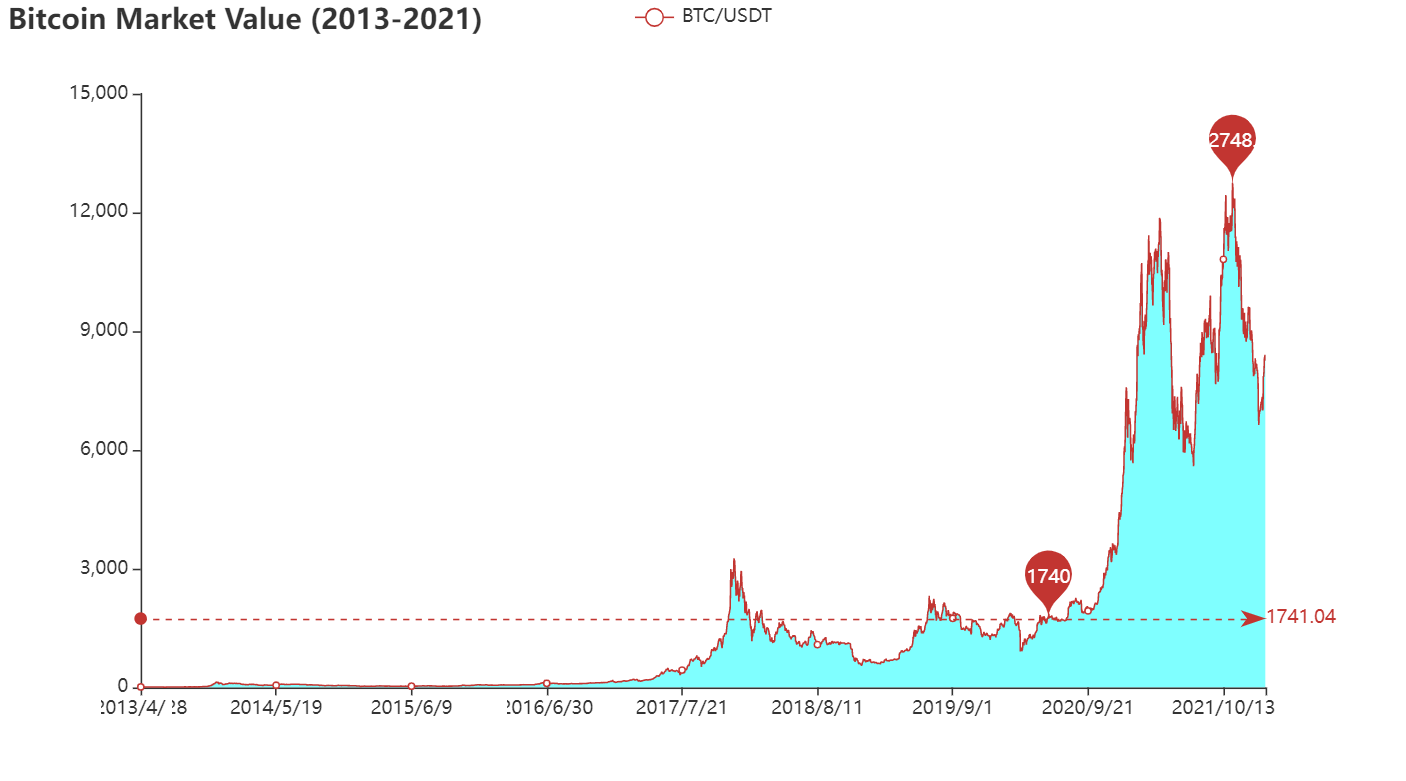
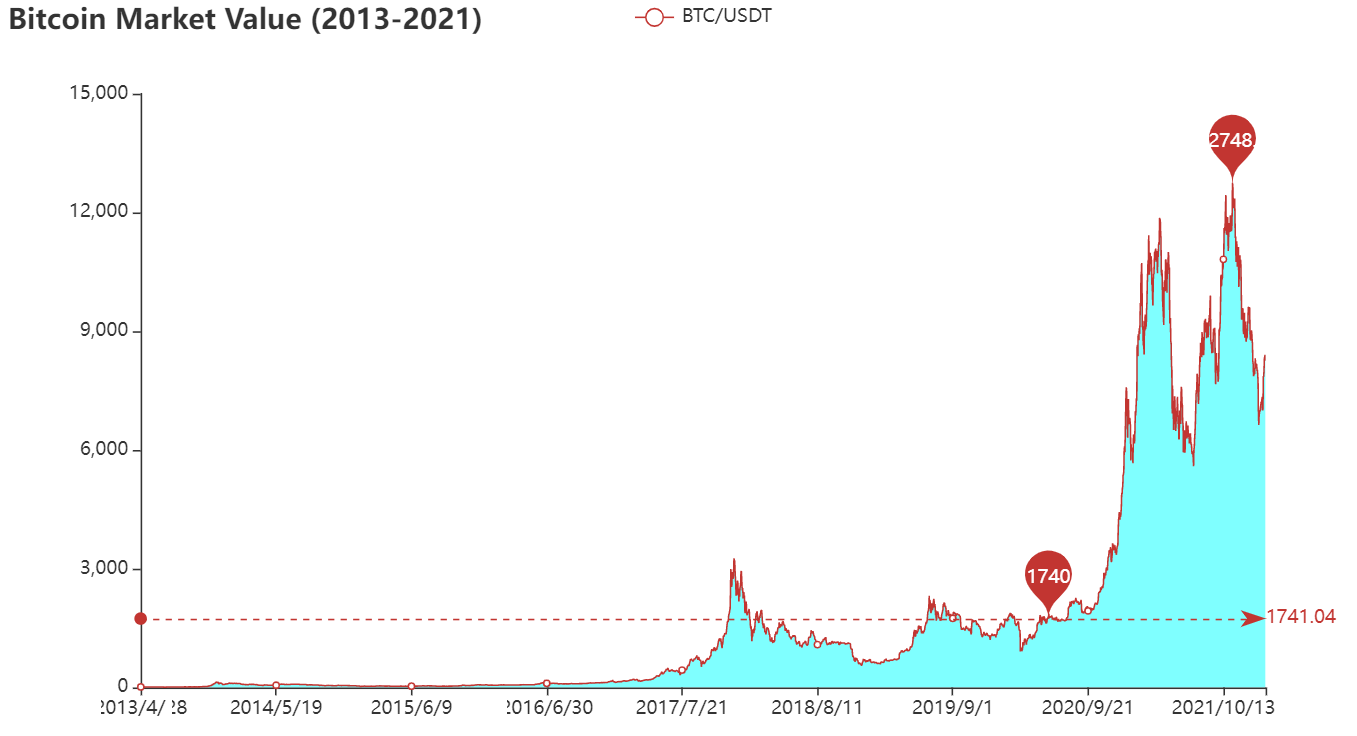
update graph

Changed region(s): [[0.031, 0.0938, 0.9904, 0.9688], [0.0, 0.0, 0.3714, 0.0625], [0.4643, 0.0, 0.5881, 0.0312]]

diff --git a/README.md b/README.md
@@ -1,7 +1,7 @@
 # QTIA-Crypto-Lecture
 Public lecture materials introducing basic blockchain and cryptocurrency trading at CUHK-Shenzhen in 2022.
 
-<img src="./1_btc_mv/btc_mv_plot.png" width="800">
+<img src="./1_btc_mv/btc_mv_plot.png" width="650">
 
 
-<img src="./3_rotation_trading/images/rotation_v1.png" width="800">
+<img src="./3_rotation_trading/images/rotation_v1.png" width="650">
